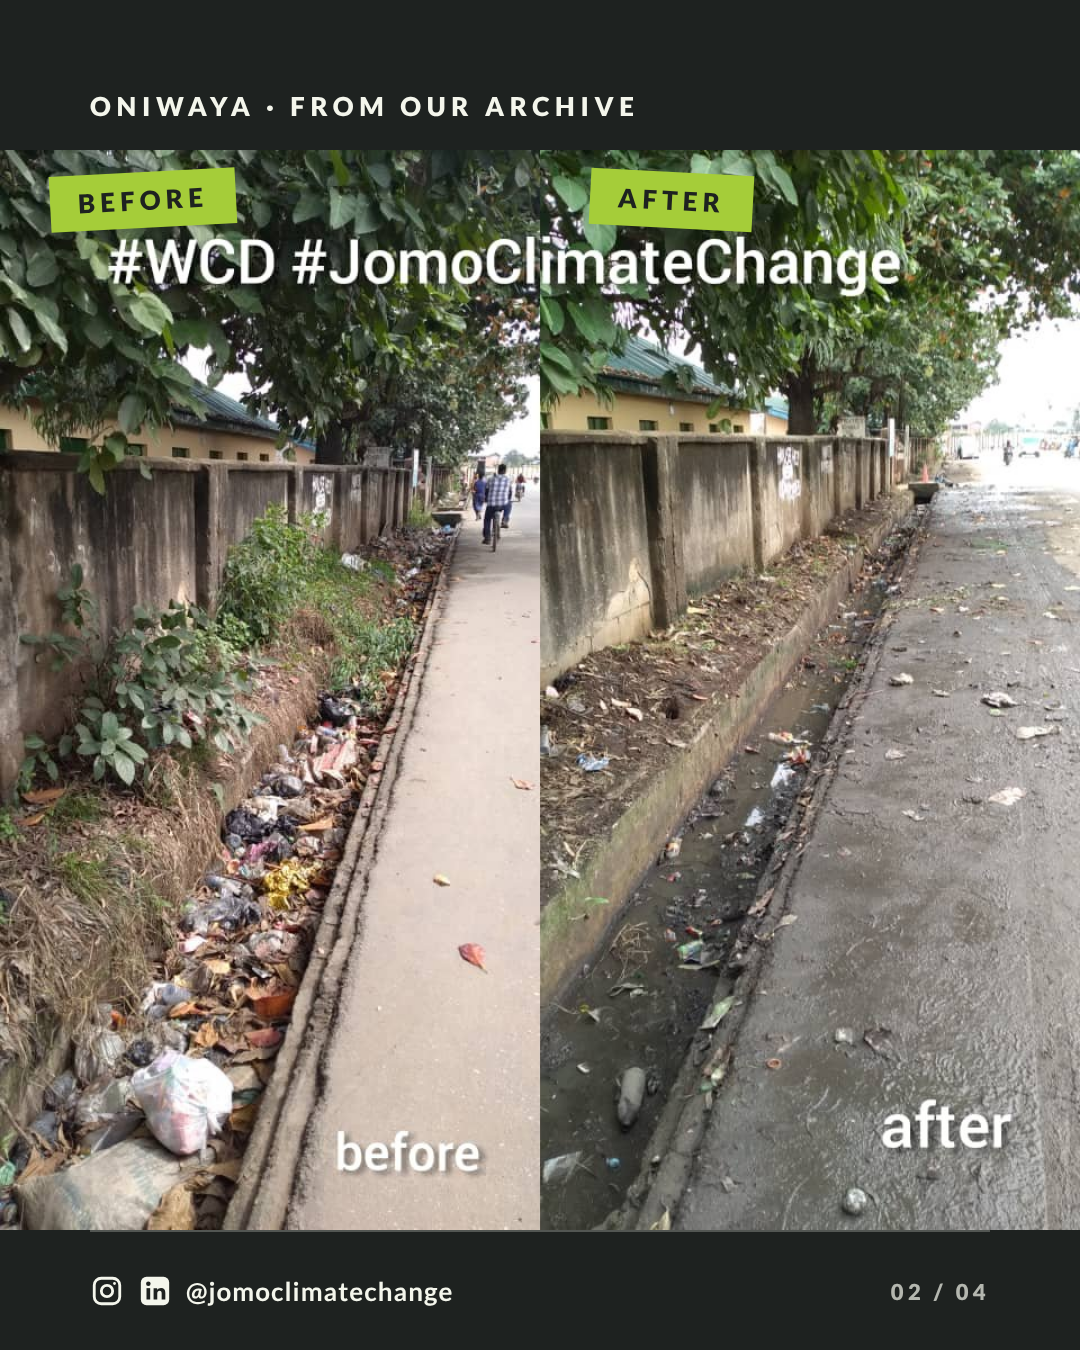
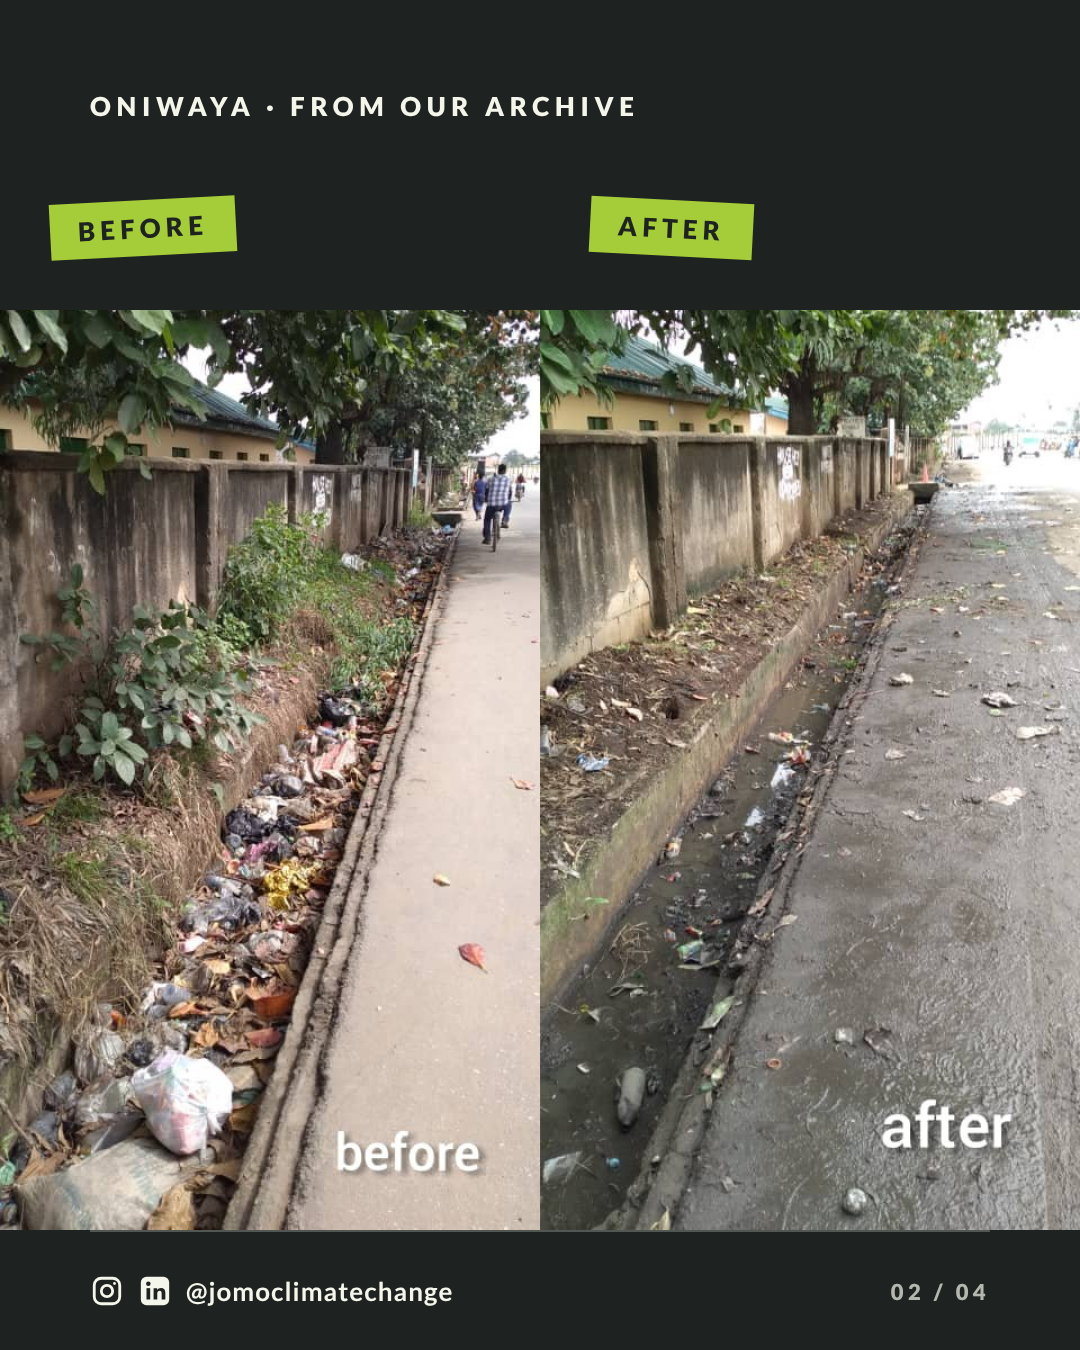
wip: apply fact-check fixes to visuals (unapproved)
Claude-Session: https://claude.ai/code/session_01F6NcUsFQ3PsVvfZiAxD4Cd

Changed region(s): [[0.0, 0.0933, 1.0, 0.2489]]

diff --git a/tools/week_1016.py b/tools/week_1016.py
@@ -47,7 +47,7 @@ write("p1-food-day-1x1", pg(f"""
 # ===== 2. Safe homes carousel =====
 T = 5
 write("p2-safe-01", pg(f"""
- {photo(LEKKI, 0, 0, 1080, 1350, "40% 50%")}{grad('bottom', 85, .97)}{grad('top', 22, .6, 0, 400)}
+ {photo(LEKKI, 0, 0, 1080, 1350, "33.5% 50%")}{grad('bottom', 85, .97)}{grad('top', 22, .6, 0, 400)}
  <div class="chip" style="left:90px;top:90px">Stock photo &middot; Lekki, Lagos</div>
  <div class="c" style="position:absolute;left:90px;right:90px;bottom:160px">
   <div class="h" style="font-size:134px">{st('Just rain.', th=11)}<br><span class="acc">A safe home<br>is climate<br>protection.</span></div></div>
@@ -77,14 +77,14 @@ write("p2-safe-04", pg(f"""
 write("p2-safe-05", pg(f"""
  <div class="label">Tell us</div>
  <div class="h" style="font-size:134px;margin-top:60px">Where does<br><span class="acc">water collect</span><br>on your street?</div>
- <div class="body" style="margin-top:44px;font-weight:700">Tell us in the comments.</div>
+ <div class="body" style="margin-top:44px;font-weight:700">Tell us.</div>
  <img src="{LOGO_L}" style="position:absolute;left:90px;bottom:170px;width:380px">
  {sprout(380, extra="right:-60px;bottom:140px;transform:rotate(-12deg)")}
 """, "ink", 5, T))
 
 # ===== 3. Safe homes X, 1600x900 =====
 write("p3-safe-x-16x9", pg(f"""
- {photo(LEKKI, 760, 0, 840, 780, "58% 50%")}
+ <div style="position:absolute;z-index:0;left:760px;top:0;width:840px;height:780px;overflow:hidden"><img src="{LEKKI}" style="position:absolute;left:-400px;top:-260px;width:1920px;height:1280px;max-width:none"></div>
  <div class="chip" style="right:40px;top:40px">Stock photo &middot; Lekki, Lagos</div>
  <div class="label">Climate, explained locally</div>
  <div class="h" style="font-size:100px;margin-top:50px;max-width:680px">When it rains,<br>where does<br><span class="acc">the water go</span><br>on your street?</div>
@@ -163,21 +163,21 @@ countdown("p9-ycef-last-x-16x9", 4, "Your street,<br>your fix.", "4 days left<br
 T = 4
 write("p8-oniwaya-01", pg(f"""
  <div class="label">One drain &middot; Oniwaya</div>
- <div class="brico" style="font-size:150px;margin-top:40px">{st('Blocked.')}<br><span style="color:{LIME}">Cleared.</span></div>
+ <div class="brico" style="font-size:150px;margin-top:40px">{st('Blocked.')}<br><span style="color:{LIME}">Cleaned up.</span></div>
  <div style="position:absolute;left:160px;top:560px;width:760px;height:620px;transform:rotate(-2.5deg);border:10px solid {OFF};overflow:hidden;z-index:0;box-shadow:0 20px 40px rgba(0,0,0,.4)">
   <img src="{ONI % '01'}" style="position:absolute;left:0;top:-300px;width:1520px;height:1520px;max-width:none"></div>
  <div class="tape" style="background:{LIME};color:{INK};left:120px;top:520px;transform:rotate(-6deg);z-index:4">Before</div>
 """, "ink", 1, T))
 write("p8-oniwaya-02", pg(f"""
- {photo(ONI % '01', 0, 150, 1080, 1080)}
+ <div style="position:absolute;z-index:0;left:0;top:310px;width:1080px;height:920px;overflow:hidden"><img src="{ONI % '01'}" style="position:absolute;left:0;top:-160px;width:1080px;height:1080px;max-width:none"></div>
  <div class="label" style="position:relative;z-index:3;color:{OFF}">Oniwaya &middot; From our archive</div>
- <div class="tape" style="z-index:4;background:{LIME};color:{INK};left:50px;top:172px;font-size:26px;padding:12px 28px;transform:rotate(-3deg)">Before</div>
- <div class="tape" style="z-index:4;background:{LIME};color:{INK};left:590px;top:172px;font-size:26px;padding:12px 28px;transform:rotate(3deg)">After</div>
+ <div class="tape" style="z-index:4;background:{LIME};color:{INK};left:50px;top:200px;font-size:26px;padding:12px 28px;transform:rotate(-3deg)">Before</div>
+ <div class="tape" style="z-index:4;background:{LIME};color:{INK};left:590px;top:200px;font-size:26px;padding:12px 28px;transform:rotate(3deg)">After</div>
 """, "ink", 2, T))
 write("p8-oniwaya-03", pg(f"""
  <div class="label">What it took</div>
  <div class="brico" style="font-size:130px;margin-top:36px">Volunteers, gloves, rakes. <span style="color:{OFF}">That's it.</span></div>
- {photo(ONI % '11', 90, 640, 900, 560, "50% 52%", "border-radius:28px")}
+ {photo(ONI % '08', 90, 650, 900, 550, "50% 36%", "border-radius:28px")}
 """, "lime", 3, T))
 write("p8-oniwaya-04", pg(f"""
  <div class="label">Your turn</div>
